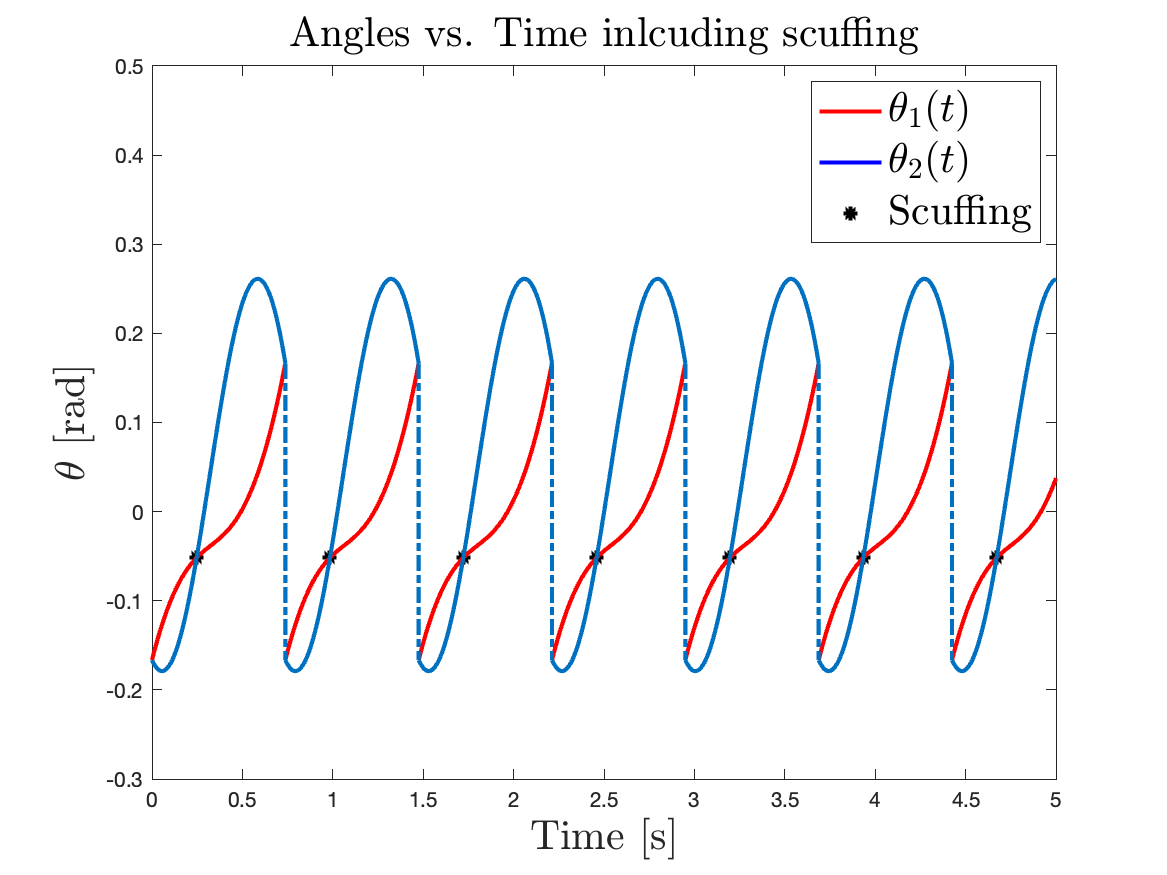
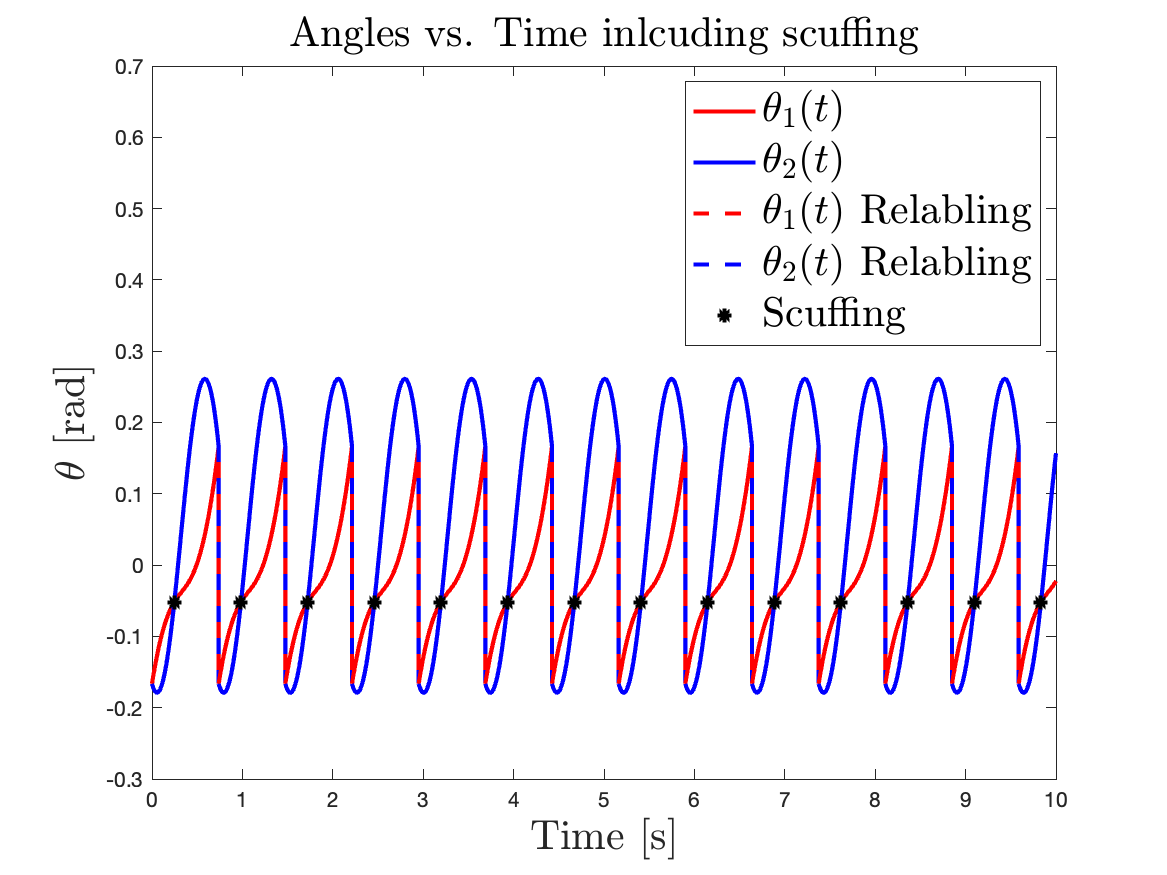
finish final

diff --git a/Final Project/simu.m b/Final Project/simu.m
@@ -1,0 +1,234 @@
+clear; clc;
+
+%% find periodic solution
+
+Z0 = [-0.149, 0.733, -0.501].';
+
+for i = 1:100
+    [Z0_periodic, ~, ~, ~, ~] = fsolve(@(Z)(Poincare_map(Z) - Z), Z0);
+    Z0 = Z0_periodic;
+end
+
+disp("th1:")
+disp(Z0(1))
+disp("th2:")
+disp(Z0(1))
+disp("th1_d:")
+disp(Z0(2))
+disp("th2_d:")
+disp(Z0(3))
+
+X0 = [0 0 Z0(1) Z0(1) 0 0 Z0(2) Z0(3)]
+
+%% ODE
+[m, mh, Ic, l, g, a, mu] = model_params;
+
+impact_status = 0; % 0: stick  1: impact
+
+t_start = 0;
+t_stop = 10;
+t_current = 0;
+options = odeset('reltol',1e-8,'abstol',1e-8,'Events',@(t,X)events_stick(t,X));
+
+X_data = [];
+t_data = [];
+
+while abs(t_stop-t_current) > 0.0001
+
+    if impact_status == 0
+        [t,X,~,~,ie] = ode45(@(t,X)sys_stick(t,X),[t_start,t_stop],X0,options);
+        X_data = [X_data; X];
+        t_data = [t_data; t];
+        t_start = t(end);
+
+        X0 = [X(end,1),X(end,2),X(end,3),X(end,4),X(end,5),X(end,6),X(end,7),X(end,8)]';
+        
+        if ~isempty(ie)
+            if ie(end) == 3 % hip  collision
+                break;
+            elseif ie(end) == 4 % foot's collision
+                impact_status = 1; 
+                Xold = X0;
+            end
+        else
+            break; 
+        end
+
+    end
+
+    if impact_status == 1
+        X0 = impact_law(Xold);
+    end
+
+    impact_status = 0;
+    t_current = t_data(end);
+
+end
+    
+%%
+x = X_data(:, 1);
+y = X_data(:, 2);
+th1 = X_data(:, 3);
+th2 = X_data(:, 4);
+x_d = X_data(:, 5);
+y_d = X_data(:, 6);
+th1_d = X_data(:, 7);
+th2_d = X_data(:, 8);
+
+%% Plot a)
+
+figure;
+plot(t_data(1), th1(1), 'r-', 'LineWidth', 2)
+hold on
+plot(t_data(1), th2(1), 'b-', 'LineWidth', 2)
+
+plot(t_data(1), th1(1), 'r--', 'LineWidth', 2) 
+plot(t_data(1), th2(1), 'b--', 'LineWidth', 2)
+
+% Scuffing
+indx_scuffing = find(abs(th1-th2) < 0.001 & th1 < 0.1 & th1 > -0.1);
+t_scuff = t_data(indx_scuffing);
+th_scuff = th1(indx_scuffing);
+plot(t_scuff, th_scuff, 'k*', 'LineWidth', 2)
+
+s = 1;
+th1_prev = th1(1);
+th2_prev = th2(1);
+for i = 2:length(t_data) 
+    th1_next = th1(i);
+    th2_next = th2(i);
+    if (abs(th1_next - th1_prev) > 0.01) % choose to escape the data
+        plot(t_data(s:i-1), th1(s:i-1), 'r-', 'LineWidth', 2)        
+        plot(t_data(i-1:i), th1(i-1:i), 'r', 'LineWidth', 2)
+        plot(t_data(s:i-1), th2(s:i-1), 'b-', 'LineWidth', 2)        
+        plot(t_data(i-1:i), th2(i-1:i), 'b--', 'LineWidth', 2)
+        s = i;
+    end
+    th1_prev = th1(i);
+    th2_prev = th2(i);
+end
+
+plot(t_data(s:end), th1(s:end), 'r-', 'LineWidth', 2)
+plot(t_data(s:end), th2(s:end), 'b-', 'LineWidth', 2)
+plot(t_scuff, th_scuff, 'k*', 'LineWidth', 2)
+
+title('Angles vs. Time inlcuding scuffing','fontsize',20,'Interpreter','latex')
+xlabel('Time [s]', 'Interpreter', 'latex', 'fontsize', 20);
+ylabel('${\theta}$ [rad]', 'Interpreter', 'latex', 'fontsize', 20);
+ylim([-0.3 0.7]);
+legend("${\theta_1(t)}$", "${\theta_2(t)}$", "${\theta_1(t)}$ Relabling","${\theta_2(t)}$ Relabling","Scuffing",'Interpreter','latex','fontsize',20,'location','ne')
+saveas(gcf, 'a.png');
+
+%% Plot b)
+figure;
+plot(th1(1), th1_d(1), 'r-', 'LineWidth', 2)
+hold on
+plot(th2(1), th2_d(1), 'b-', 'LineWidth', 2)
+plot(th1(1), th1_d(1), 'r-.', 'LineWidth', 2)
+plot(th2(1), th2_d(1), 'b-.', 'LineWidth', 2)
+% Scuffing:
+plot(th1(indx_scuffing), th1_d(indx_scuffing), 'ko', 'LineWidth', 3)
+
+% Collision:
+indx_collision = find(abs(th1-th2) < 0.001 & (th1 > 0.1 | th1 < -0.1));
+plot(th1(indx_collision), th1_d(indx_collision), 'kx', 'LineWidth', 3)
+
+
+s = 1;
+th1_prev = th1(1);
+th2_prev = th2(1);
+for i = 2:length(t_data) 
+    th1_next = th1(i);
+    th2_next = th2(i);
+    if (abs(th1_next - th1_prev) > 0.01)
+        plot(th1(s:i-1), th1_d(s:i-1), 'r-', 'LineWidth', 2)        
+        plot(th1(i-1:i), th1_d(i-1:i), 'r-.', 'LineWidth', 2)
+        plot(th2(s:i-1), th2_d(s:i-1), 'b-', 'LineWidth', 2)        
+        plot(th2(i-1:i), th2_d(i-1:i), 'b-.', 'LineWidth', 2)
+        s = i;
+    end
+    th1_prev = th1(i);
+    th2_prev = th2(i);
+end
+plot(th1(s:end), th1_d(s:end), 'r-', 'LineWidth', 2)
+plot(th2(s:end), th2_d(s:end), 'b-', 'LineWidth', 2)
+
+% Scuffing:
+plot(th1(indx_scuffing), th1_d(indx_scuffing), 'ko', 'LineWidth', 3)
+plot(th2(indx_scuffing), th2_d(indx_scuffing), 'ko', 'LineWidth', 3)
+
+% Collision:
+plot(th1(indx_collision), th1_d(indx_collision), 'kx', 'LineWidth', 3)
+plot(th2(indx_collision), th2_d(indx_collision), 'kx', 'LineWidth', 3)
+
+
+title('Phase plane trajectories','fontsize',20,'Interpreter','latex')
+xlabel('${\theta}$ [rad]', 'Interpreter', 'latex', 'fontsize', 20);
+ylabel('${\dot{\theta}}$ [rad/s]', 'Interpreter', 'latex', 'fontsize', 20);
+ylim([-2 2]);
+xlim([-0.25 0.55]);
+legend("${\theta_1(t)}$", "${\theta_2(t)}$", "Relabeling", "Relabeling", "Scuffing",  "Collision",'Interpreter','latex','fontsize',20,'location','ne')
+saveas(gcf, 'b.png');
+
+
+%% Plot c)
+lambda_t_data = [];
+lambda_n_data = [];
+for i = 1:length(t_data)
+    [~, lambda] = dyn_sol_stick(t_data(i), X_data(i, :));
+    lambda_t_data = [lambda_t_data, lambda(1)];
+    lambda_n_data = [lambda_n_data, lambda(2)];
+end
+
+figure;
+plot(t_data, lambda_n_data, "r-", 'LineWidth', 2); 
+hold on;
+plot([t_data(1) t_data(end)], [0 0], 'k-.', 'LineWidth', 2);
+title('$\lambda_n$ vs. Time','fontsize',20,'Interpreter','latex')
+xlabel('Time [s]', 'Interpreter', 'latex', 'fontsize', 20);
+ylabel('$\lambda_n$ [N]', 'Interpreter', 'latex', 'fontsize', 20);
+legend("$\lambda_n$",'Interpreter','latex','fontsize',20,'location','ne')
+ylim([-10 140]);
+saveas(gcf, 'c.png');
+
+%% Plot d)
+
+figure;
+plot(t_data, lambda_t_data./lambda_n_data, '-', 'LineWidth', 2)
+hold on
+
+LAMBDA_t = [];
+LAMBDA_n = [];
+
+
+for i = 1:length(indx_collision)
+    
+    [M, ~, ~, ~, ~, Wtilde] = dynamics_mat(X_data(indx_collision(i),:));
+    A = (Wtilde/M)*Wtilde';
+    vp_minus = Wtilde*X_data(indx_collision(i),5:end).';
+    LAMBDA = -A\vp_minus;
+    LAMBDA_t = [LAMBDA_t, LAMBDA(1)];
+    LAMBDA_n = [LAMBDA_n, LAMBDA(2)];
+end
+
+LAMBDA_impact_index = find(LAMBDA_t./LAMBDA_n < 0);
+
+plot(t_data(indx_collision(LAMBDA_impact_index)), LAMBDA_t(LAMBDA_impact_index)./LAMBDA_n(LAMBDA_impact_index), 'kx', 'LineWidth', 3)
+plot([t_data(1) t_data(end)], mu*[1 1], 'k-.', 'LineWidth', 2)
+plot([t_data(1) t_data(end)], -mu*[1 1], 'k-.', 'LineWidth', 2)
+
+
+title('Force ratio vs. Time','fontsize',20,'Interpreter','latex')
+xlabel('Time [s]', 'Interpreter', 'latex', 'fontsize', 20);
+ylabel('Force ratio', 'Interpreter', 'latex', 'fontsize', 20);
+ylim([-1.2 1.2]);
+legend("${\lambda_t/\lambda_n}$", "${\Lambda_t/\Lambda_n}$", "$\pm \mu$", 'Interpreter','latex','fontsize',20,'location','ne')
+saveas(gcf, 'd.png');
+
+%% Q6
+
+min_lam_ratio = max(abs(lambda_t_data ./ lambda_n_data));
+min_Lam_ratio = max(abs(LAMBDA_t./LAMBDA_n));
+max_abs_ratio = max(min_lam_ratio, min_Lam_ratio);
+fprintf('min_mu：%.4f\n', max_abs_ratio);
+

diff --git a/Final Project/model_params.m b/Final Project/model_params.m
@@ -6,6 +6,6 @@ function [m, mh, Ic, l, g, a, mu] = model_params
     l = 0.8;
     g = 10;
     a = deg2rad(1.5);
-    mu = 100;
+    mu = 1;
 
 end
